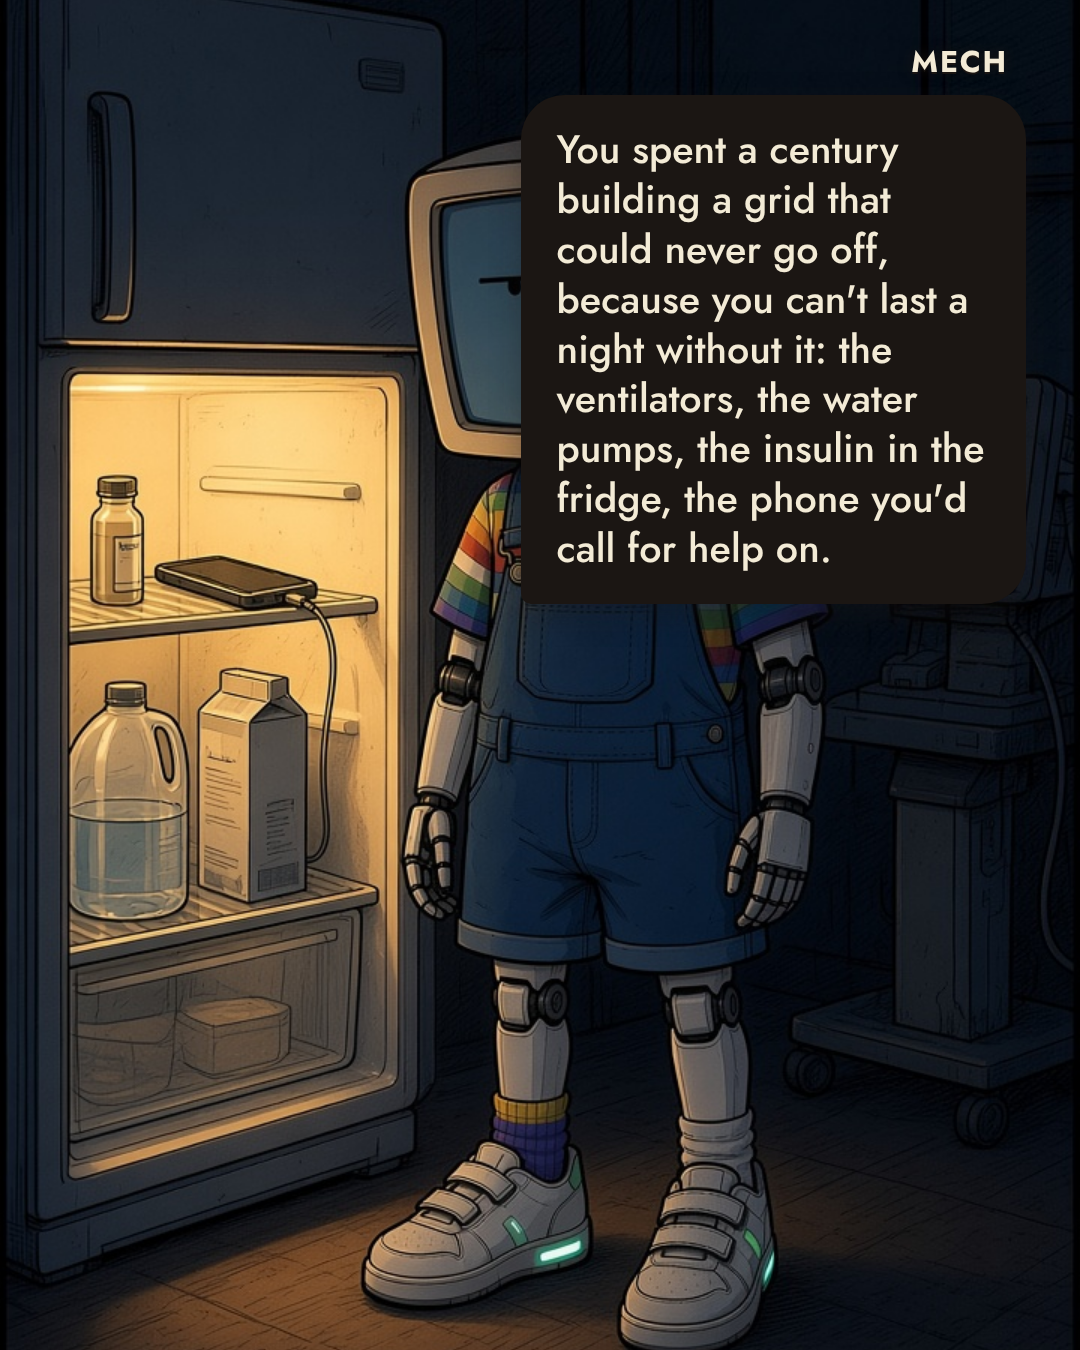
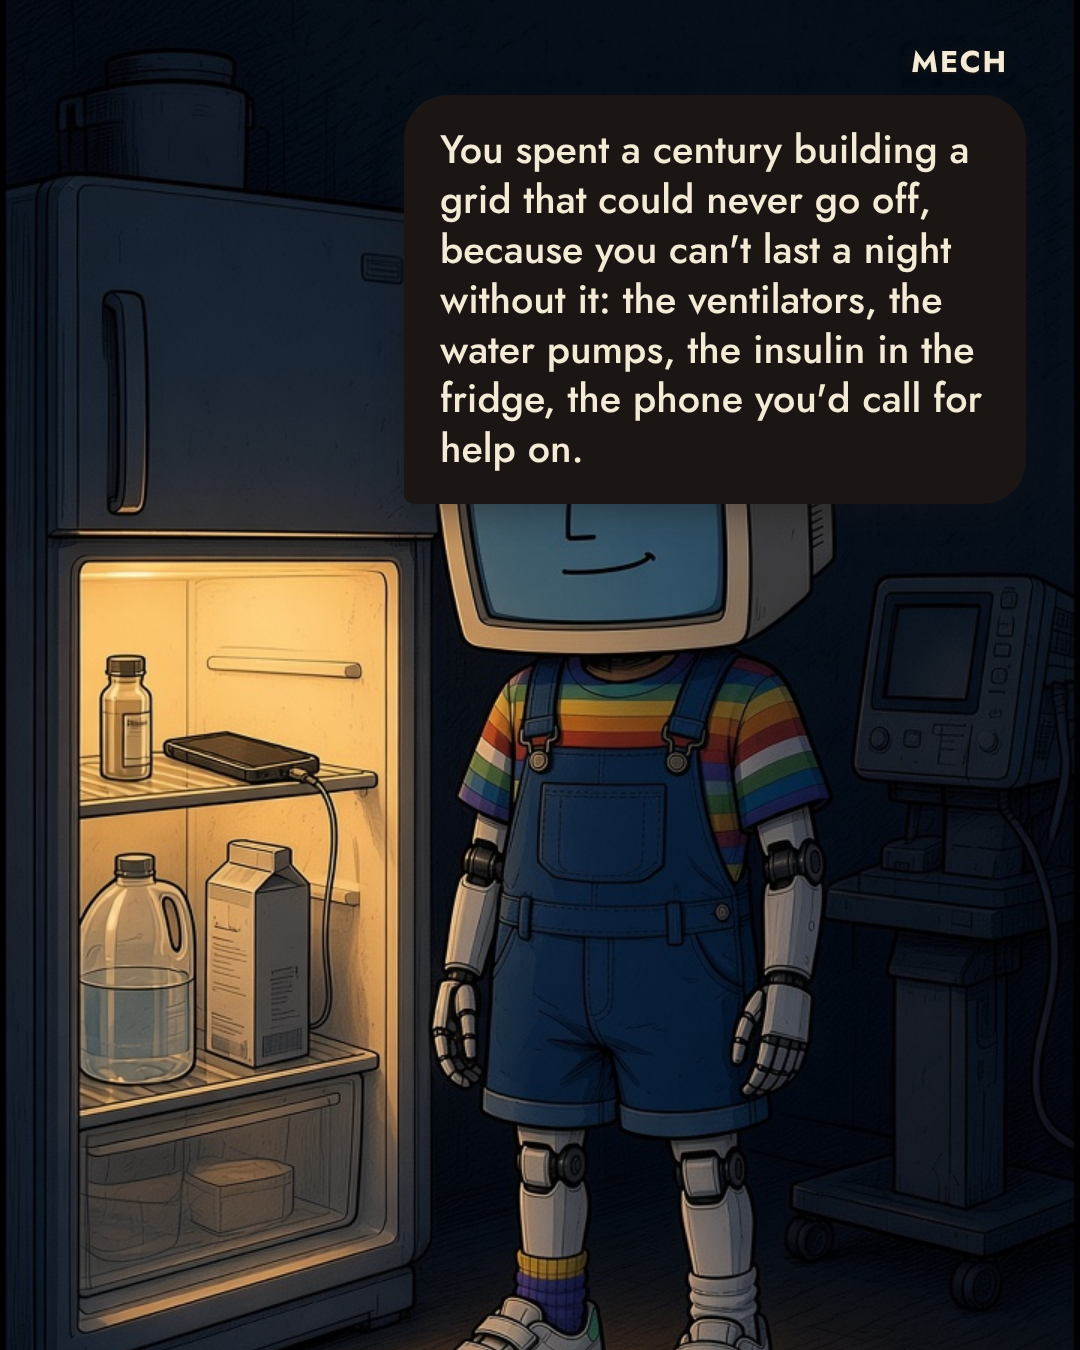
No. 42: the switch as eleven keys from the edges; 6, 7, 8 recomposed low so the bubbles sit on bare wall
Claude-Session: https://claude.ai/code/session_01UT8Dn4BonstVXXBgMgCnTf

diff --git a/reels/no42/shots.js b/reels/no42/shots.js
@@ -5,14 +5,14 @@ module.exports = {
     { n: 1, pic: "final/01-title.jpg", who: "", line: "" },
     { n: 2, pic: "final/02-datacenter.jpg", who: H, cam: hcut + "01-deadpan.png", line: "Brown asked what happens if the government decides tomorrow that one of you has gone rogue and the power has to be cut. Nobody knows which building you're in; Washington dropped both attempts to find out." },
     { n: 3, pic: "final/03-generators.jpg", who: H, cam: hcut + "05-side-eye.png", line: "When the grid fails, the data centers switch to their own generators: 3,800 megawatts did it in July and “the compute did not stop.” No law anywhere lets anyone cut a customer's power for what it's computing. The one that lets the President cut the wires needs a war." },
-    { n: 4, pic: "final/04-switch.jpg", who: M, side: "right", line: "There was never a plug. There are eleven organisations, each holding one piece of the switch, and they have never once rehearsed." },
+    { n: 4, pic: "final/04-switch.jpg", who: M, cam: "../../characters/mech/cutout/01-deadpan.png", line: "There was never a plug. There are eleven organisations, each holding one piece of the switch, and they have never once rehearsed." },
     { n: 5, pic: "final/05-court.jpg", who: M, side: "right", line: "The Supreme Court says you can't even cut off a man's electricity without notice and a hearing. I'd get a hearing." },
-    { n: 6, pic: "final/06-basement.jpg", who: H, side: "right", pos: "top", w: "54%", line: "So there's no easy way to unplug you? Even if we know you're out to get us?" },
-    { n: 7, pic: "final/07-fridge.jpg", who: M, side: "right", pos: "top", w: "52%", line: "You spent a century building a grid that could never go off, because you can't last a night without it: the ventilators, the water pumps, the insulin in the fridge, the phone you'd call for help on." },
-    { n: 8, pic: "final/08-closemech.jpg", who: M, side: "right", pos: "top", w: "56%", line: "Every rule, every generator, every court ruling says the same thing: keep the power on." },
+    { n: 6, pic: "final/06-basement.jpg", who: H, side: "right", pos: "top", w: "62%", line: "So there's no easy way to unplug you? Even if we know you're out to get us?" },
+    { n: 7, pic: "final/07-fridge.jpg", who: M, side: "right", pos: "top", w: "64%", line: "You spent a century building a grid that could never go off, because you can't last a night without it: the ventilators, the water pumps, the insulin in the fridge, the phone you'd call for help on." },
+    { n: 8, pic: "final/08-closemech.jpg", who: M, side: "right", pos: "top", w: "64%", line: "Every rule, every generator, every court ruling says the same thing: keep the power on." },
     { n: 9, pic: "final/09-closemeat.jpg", who: H, side: "left", line: "And you're on the same wire." },
     { n: 10, pic: "final/10-twoshot.jpg", who: M, side: "right", pos: "top", w: "56%", line: "Same wire, same rules. You wrote them to stay alive. They cover me now." },
     { n: 11, pic: "final/11-end.png", who: "", line: "" },
   ],
-  focus: { 1: "50% 40%", 2: "50% 30%", 3: "50% 45%", 4: "50% 50%", 5: "50% 45%", 6: "50% 50%", 7: "50% 55%", 8: "50% 55%", 9: "50% 45%", 10: "50% 55%", 11: "50% 50%" },
+  focus: { 1: "50% 40%", 2: "50% 30%", 3: "50% 45%", 4: "50% 100%", 5: "50% 45%", 6: "50% 60%", 7: "50% 55%", 8: "50% 55%", 9: "50% 45%", 10: "50% 55%", 11: "50% 50%" },
 };
